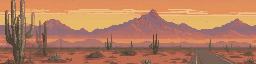
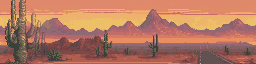
Drop the unaccepted desert-dusk_s1 re-render, keep it as an open finding
Three texture-prompt passes could not close its SEAM_ENERGY vertical gap
(v stayed 5.6-6.1, inner_v even moved the wrong direction on the last
attempt). Revert to the session-1 accepted art rather than leave a
still-failing, never-eyeballed re-render checked in -- the gate's verdict
on this strip is unchanged either way. Recorded what was tried and what
didn't work in art/README.md.

Claude-Session: https://claude.ai/code/session_01TdySMAtPXUshfZ6zjX2Cwo

diff --git a/art/README.md b/art/README.md
@@ -75,6 +75,41 @@ render was overwritten and the exact image behind a reported number became
 unrecoverable. `~/roadside-assistance/tools/artgen.py` is a manifest
 implementation whose recipes are verified to reproduce images bit-for-bit.
 
+## SEAM_ENERGY vertical axis (2026-08-18)
+
+Session 2 added a vertical check to SEAM_ENERGY, same 4.0 threshold as the
+existing horizontal one. It retroactively failed 4 of the 9 backdrop strips
+above: a smooth sky-to-ground gradient scores a large luma jump between the
+top and bottom row (`seam_v`) while carrying very little interior row-to-row
+texture (`inner_v`), and the ratio blows past threshold even though nothing
+about the strip reads as a seam by eye. Storm strips (clouds, rain, rock
+detail) passed 3/3 without changes; desert-dusk failed 3/3, desert-night 1/3.
+
+Fix that worked: **add interior texture to the prompt** (scattered clouds,
+layered ridgelines, foreground rock/scrub detail), which raises `inner_v`
+without flattening the brightness gap that `NO_VERTICAL_STRUCTURE` depends
+on. Confirmed NOT working: pixel-level post-processing (a vertical taper
+analogous to the horizontal `wrap_blend`) — the row0-vs-row63 comparison is
+too indirect for a local blend to move predictably; two prototypes moved
+some strips the right way and others the wrong way with no stable pattern,
+and were discarded rather than shipped.
+
+Three texture-prompt passes fixed desert-dusk_s0, desert-dusk_s2 and
+desert-night_s2. **desert-dusk_s1 did not close** (v stayed at 5.6-6.1
+across all three attempts, and its `inner_v` even moved the wrong direction
+on the third, most heavily-texture-worded pass) and was left on its
+session-1 art rather than kept as an unaccepted, still-failing re-render.
+Reported as an open finding, not solved: this specific seed/prompt
+combination may have a real ceiling below what interior texture alone can
+raise `inner_v` to, at this resolution and pipeline.
+
+Also measured: rendering is byte-identical within one process (same
+prompt+seed twice, max pixel diff 0), but the same prompt+seed measured
+~0.5 different in `v` across two separate process invocations — a real,
+if modest, cross-process variance source. Strips passing with less than
+~0.5 of margin (desert-night_s2 at v=3.52) should be treated as marginal,
+not settled.
+
 ## Contact sheets worth reading
 
 - `SIZE_COMPARE.png` — the same subjects at 32/48/64px. This is why 64px is the
